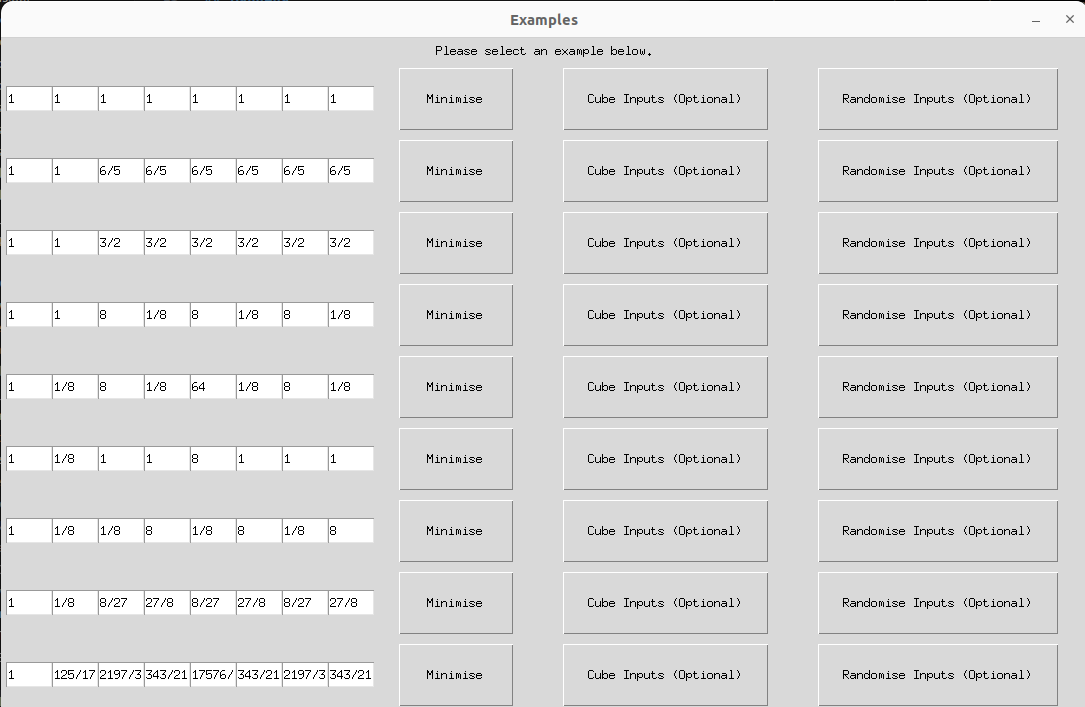
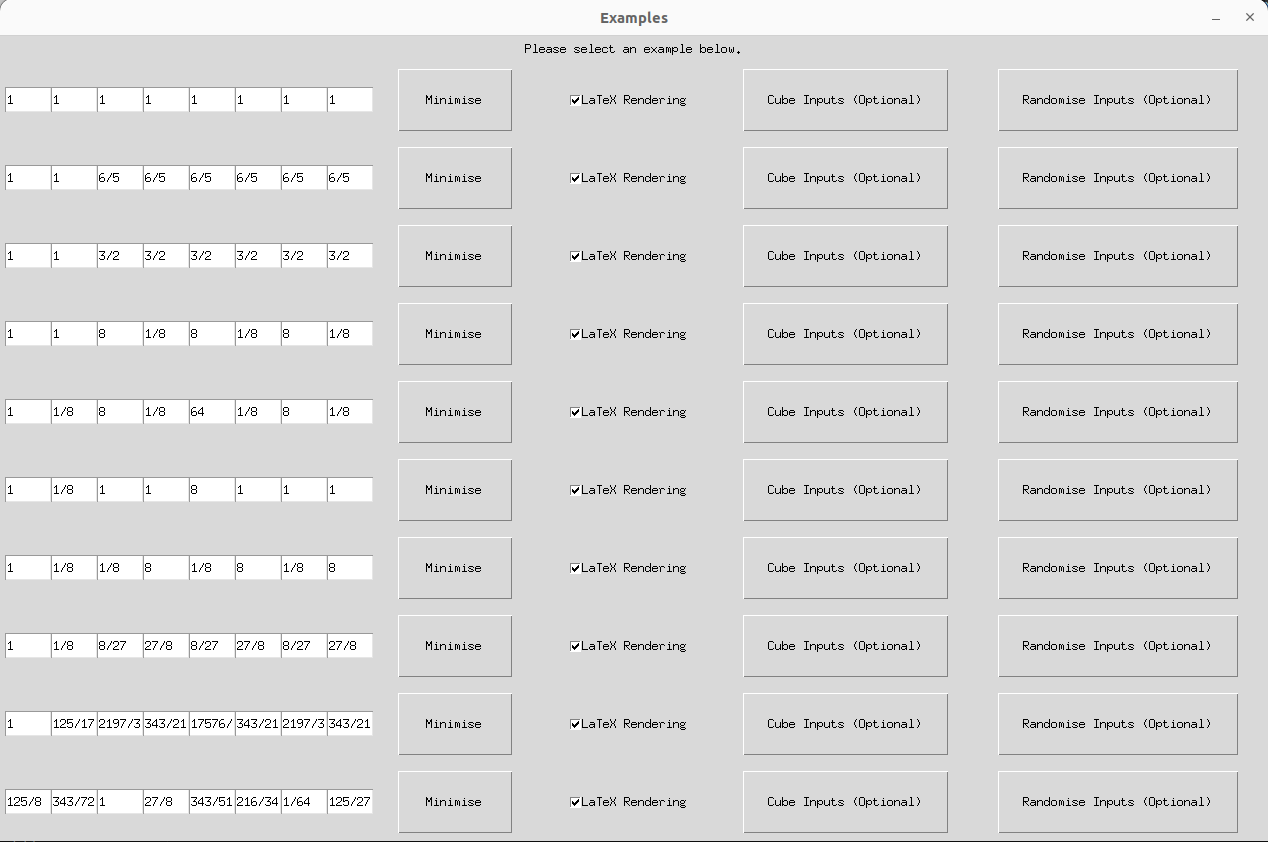
Updated README with length trace plot and latex rendering instructions

diff --git a/README.md b/README.md
@@ -10,6 +10,16 @@ To install, run the following code. This will install the trace_length_reduction
 python3 -m pip install -e .
 ```
 
+### Optional: LaTeX Rendering
+
+As part of the package, matplotlib figures will be produced with LaTeX rendering. This requires the host machine to have a LaTeX distribution installated with the `amsmath` package. When LaTeX rendering is activated, the following code is run:
+```
+import matplotlib as mpl
+mpl.rcParams.update(mpl.rcParamsDefault)
+plt.rcParams['text.usetex'] = True
+mpl.rcParams['text.latex.preamble'] = r'\usepackage{{amsmath}}'
+```
+
 ## Running
 
 To run, run the following code:
@@ -24,7 +34,7 @@ After running, a visual interface appears as shown below.
 
 ![Trace Length Reduction Algorithm Menu](readme_pictures/menu.png)
 
-Click on `Minimise X-coordinates` to enter specific X-coordinates, or click `Examples` to see a list of example X-coordinates. For ease of use, you can click `Minimise X-coordinates` multiple times to open new windows and enter different coordinatoes.
+Click on `Minimise X-coordinates` to enter specific X-coordinates, or click `Examples` to see a list of example X-coordinates. For ease of use, you can click `Minimise X-coordinates` multiple times to open new windows and enter different coordinates.
 
 ![Trace Length Reduction Examples Menu](readme_pictures/examples.png)
 
@@ -33,6 +43,31 @@ To optionally cube the X-coordinate entries, click `Cube Inputs (Optional)`. To 
 ![Trace Length Reduction Example Reduction Results](readme_pictures/reduction_results.png)
 
 To copy the output text to clipboard, click `Copy Output`.
+
+In addition to the reduction results, two windows will open with a Length Trace Plot for the trace and length reduction procedures respectively. Example outputs are shown below.
+
+
+![Trace Reduction Length Trace Plot](readme_pictures/length_reduction_example.png)
+
+![Length Reduction Length Trace Plot Example](readme_pictures/trace_reduction_example.png)
+
+
+
+
+
+### Turning off LaTeX Rendering
+
+If a LaTeX distribution is unavailable for usage by `matplotlib`, LaTeX rendering can be optionally disabled. To turn off LaTeX rendering, uncheck the `LaTeX Rendering` checkmark.
+
+![Unchecked LaTeX Rendering Checkbox](readme_pictures/turn_off_latex.png)
+
+After clicking `Minimise`, this will produce the Length Trace Plot with standard text as shown below.
+
+![Length Reduction Length Trace Plot Non-LaTeX Example](readme_pictures/no_latex_example.png)
+
+
+
+
 
 <!-- 
 ## Installation
